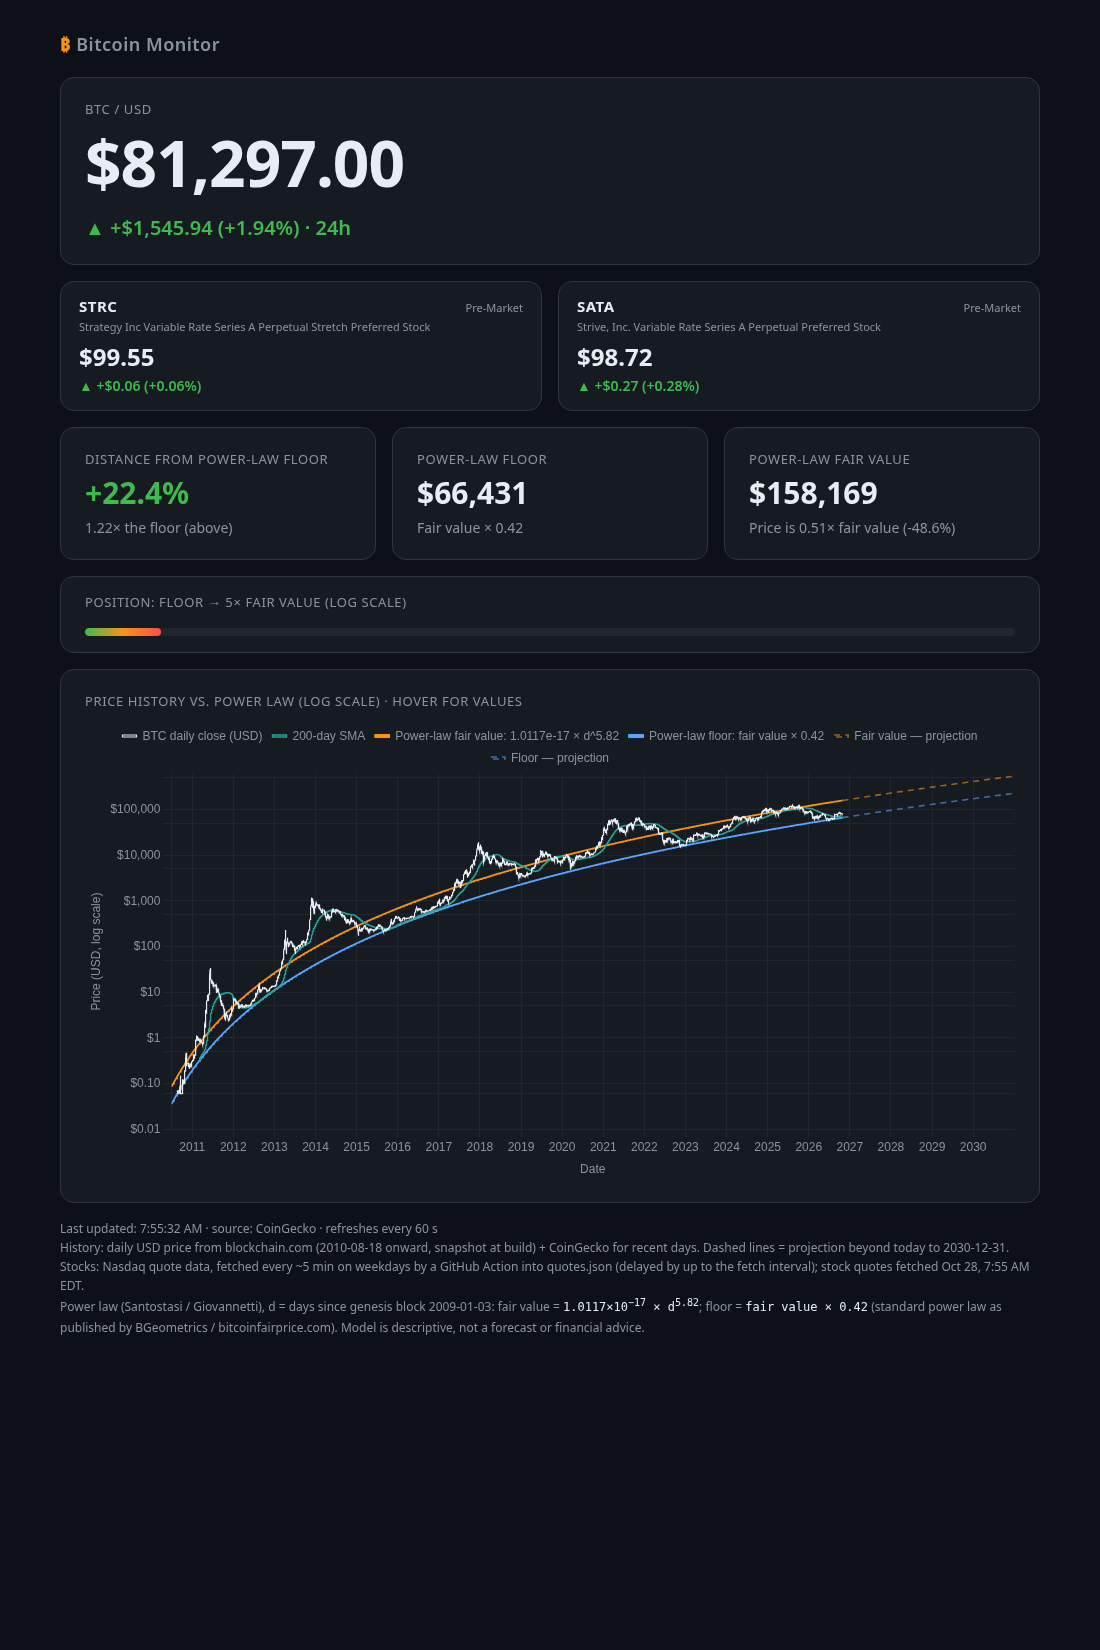
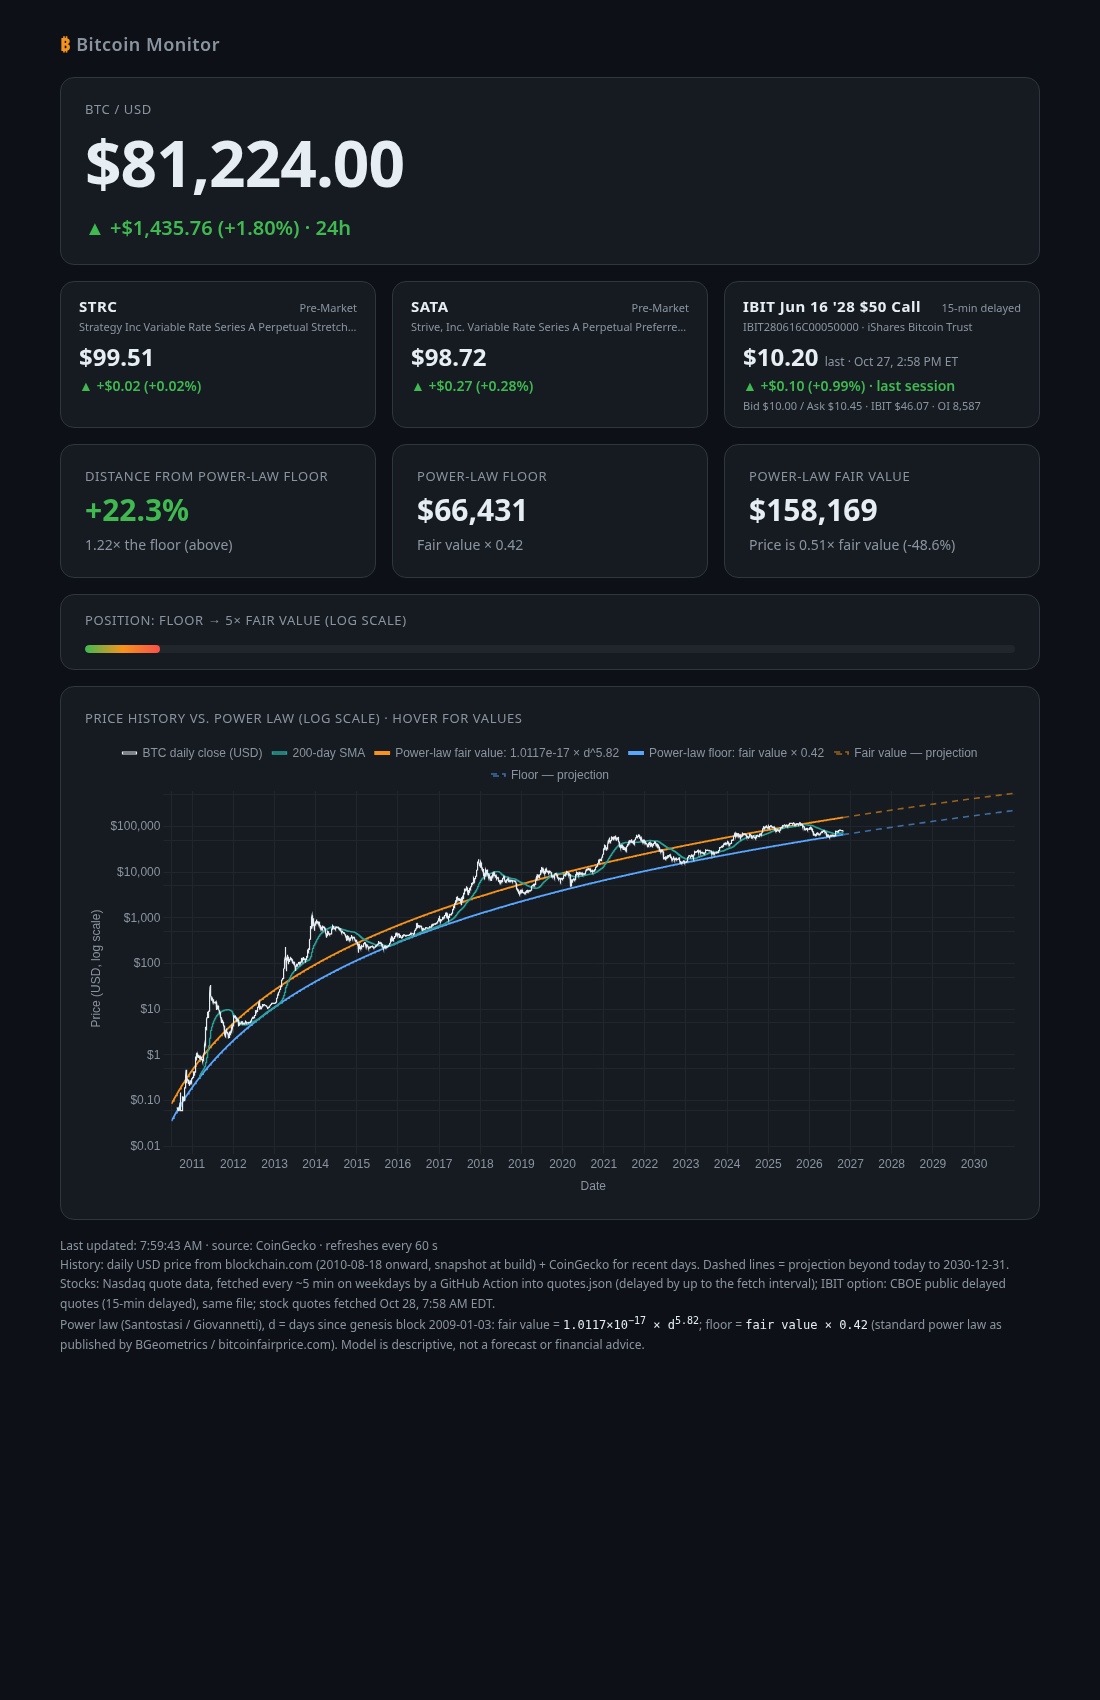
Add the IBIT Jun 2028 $50 call quote card.
Replace the dashboard, preview, quotes snapshot, and fetch script so the same weekday workflow also records the CBOE delayed call quote.

diff --git a/index.html b/index.html
@@ -34,6 +34,7 @@ main{max-width:980px}
 <div class="grid stocks">
   <div class="card" id="q-STRC"><div class="tk"><b>STRC</b><span class="sub" style="font-size:11px" data-f="st"></span></div><div class="nm" data-f="nm">Strategy Inc · Stretch preferred</div><div class="qp" data-f="p">—</div><div class="qc" data-f="c">Loading…</div></div>
   <div class="card" id="q-SATA"><div class="tk"><b>SATA</b><span class="sub" style="font-size:11px" data-f="st"></span></div><div class="nm" data-f="nm">Strive, Inc. · Series A preferred</div><div class="qp" data-f="p">—</div><div class="qc" data-f="c">Loading…</div></div>
+  <div class="card" id="q-OPT"><div class="tk"><b>IBIT Jun 16 '28 $50 Call</b><span class="sub" style="font-size:11px">15-min delayed</span></div><div class="nm" data-f="nm">IBIT280616C00050000 · iShares Bitcoin Trust</div><div class="qp" data-f="p">—</div><div class="qc" data-f="c">Loading…</div><div class="nm" data-f="ba"></div></div>
 </div>
 <div class="grid">
   <div class="card"><div class="lbl">Distance from power-law floor</div><div class="big" id="pct">—</div><div class="sub" id="mult"></div></div>
@@ -45,7 +46,7 @@ main{max-width:980px}
 <footer>
   <div>Last updated: <span id="upd">—</span> · source: <span id="src">—</span> · refreshes every 60 s</div>
   <div>History: daily USD price from blockchain.com (2010‑08‑18 onward, snapshot at build) + CoinGecko for recent days. Dashed lines = projection beyond today to 2030‑12‑31.</div>
-  <div>Stocks: Nasdaq quote data, fetched every ~5 min on weekdays by a GitHub Action into quotes.json (delayed by up to the fetch interval); <span id="qupd">—</span>.</div>
+  <div>Stocks: Nasdaq quote data, fetched every ~5 min on weekdays by a GitHub Action into quotes.json (delayed by up to the fetch interval); IBIT option: CBOE public delayed quotes (15-min delayed), same file; <span id="qupd">—</span>.</div>
   <div>Power law (Santostasi / Giovannetti), d = days since genesis block 2009‑01‑03:
   fair value = <code>1.0117×10<sup>−17</sup> × d<sup>5.82</sup></code>; floor = <code>fair value × 0.42</code> (standard power law as published by BGeometrics / bitcoinfairprice.com). Model is descriptive, not a forecast or financial advice.</div>
 </footer>
@@ -129,6 +130,20 @@ async function updateQuotes(){
   const up=d.change>=0;f('c').className='qc '+(up?'up':'dn');
   f('c').textContent=`${up?'▲ +':'▼ −'}${usd(Math.abs(d.change),2)} (${up?'+':'−'}${Math.abs(d.changePct).toFixed(2)}%)`;
  }
+
+ {const el=$('q-OPT'),f=k=>el.querySelector(`[data-f="${k}"]`),o=q&&q.quotes&&q.quotes['IBIT_C50_2028-06'];
+  if(!o||!(o.last>0||o.bid>0||o.ask>0)){f('p').textContent='—';f('c').className='qc';f('c').textContent='quote unavailable';f('ba').textContent=''}
+  else{
+   const mid=(o.bid>0&&o.ask>0)?(o.bid+o.ask)/2:null, lt=o.lastTradeTime?new Date(o.lastTradeTime+'Z'):null;/* CBOE time is exchange (ET) wall-clock; treat as UTC only for formatting */
+   const recent=o.last>0&&lt&&(Date.now()-lt.getTime())<4*DAY+5*36e5;
+   const fmtT=t=>t.toLocaleString('en-US',{timeZone:'UTC',month:'short',day:'numeric',hour:'numeric',minute:'2-digit'})+' ET';
+   if(recent||!mid){f('p').innerHTML=`${usd(o.last,2)} <span class="sub" style="font-size:12px;font-weight:400">last${lt?' · '+fmtT(lt):''}</span>`}
+   else{f('p').innerHTML=`${usd(mid,2)} <span class="sub" style="font-size:12px;font-weight:400">bid/ask midpoint (no recent trade)</span>`}
+   if(o.change!=null&&o.changePct!=null){const up=o.change>=0;f('c').className='qc '+(up?'up':'dn');
+    f('c').textContent=`${up?'▲ +':'▼ −'}${usd(Math.abs(o.change),2)} (${up?'+':'−'}${Math.abs(o.changePct).toFixed(2)}%) · last session`}
+   else{f('c').className='qc';f('c').textContent='change n/a'}
+   f('ba').textContent=`Bid ${o.bid!=null?usd(o.bid,2):'—'} / Ask ${o.ask!=null?usd(o.ask,2):'—'}`+(o.underlyingPrice?` · IBIT ${usd(o.underlyingPrice,2)}`:'')+(o.openInterest?` · OI ${o.openInterest.toLocaleString()}`:'');
+  }}
  $('qupd').textContent=q&&q.fetchedUtc?'stock quotes fetched '+new Date(q.fetchedUtc).toLocaleString('en-US',{month:'short',day:'numeric',hour:'numeric',minute:'2-digit',timeZoneName:'short'}):'stock quotes unavailable';
 }
 update();updateQuotes();setInterval(()=>{update();updateQuotes()},60000);

diff --git a/scripts/fetch_quotes.py b/scripts/fetch_quotes.py
@@ -15,12 +15,30 @@ def quote(sym):
             "price": num(p["lastSalePrice"]), "change": num(p["netChange"]) if p.get("deltaIndicator") != "down" else -abs(num(p["netChange"])),
             "changePct": num(p["percentageChange"]) if p.get("deltaIndicator") != "down" else -abs(num(p["percentageChange"])),
             "asOf": p.get("lastTradeTimestamp"), "realTime": p.get("isRealTime"), "status": d.get("marketStatus")}
+
+OPT_KEY, OPT_SYM = "IBIT_C50_2028-06", "IBIT280616C00050000"
+def option_quote():
+    """IBIT Jun 16 2028 $50 call from CBOE's public delayed-quotes chain (15-min delayed, no key)."""
+    req = urllib.request.Request("https://cdn.cboe.com/api/global/delayed_quotes/options/IBIT.json",
+                                 headers={"User-Agent": UA, "Accept": "application/json"})
+    d = json.load(urllib.request.urlopen(req, timeout=30))
+    o = next(x for x in d["data"]["options"] if x["option"] == OPT_SYM)
+    return {"symbol": OPT_SYM, "name": "IBIT Jun 16 '28 $50 Call", "underlying": "IBIT",
+            "underlyingPrice": d["data"].get("current_price"), "strike": 50.0, "expiry": "2028-06-16", "type": "call",
+            "last": o.get("last_trade_price"), "lastTradeTime": o.get("last_trade_time"),
+            "bid": o.get("bid"), "ask": o.get("ask"), "change": o.get("change"), "changePct": o.get("percent_change"),
+            "volume": o.get("volume"), "openInterest": o.get("open_interest"), "iv": o.get("iv"),
+            "asOfUtc": d.get("timestamp"), "delayed": "15-min delayed (CBOE)"}
 out = {"fetchedUtc": datetime.datetime.now(datetime.timezone.utc).strftime("%Y-%m-%dT%H:%M:%SZ"), "source": "Nasdaq", "quotes": {}}
 for s in SYMS:
     try:
         out["quotes"][s] = quote(s)
     except Exception as e:
         print(f"{s}: {e}", file=sys.stderr)
+try:
+    out["quotes"][OPT_KEY] = option_quote()
+except Exception as e:  # fail soft: stocks still get written
+    print(f"{OPT_KEY}: {e}", file=sys.stderr)
 if not out["quotes"]:
     sys.exit("no quotes fetched")
 json.dump(out, open("quotes.json", "w"), indent=1)

diff --git a/README.md b/README.md
@@ -9,5 +9,6 @@ Static single-page Bitcoin dashboard, live at https://rhoffman721.github.io/btc-
 - Log-scale history chart from 2010 with a 200-day SMA and dashed projections to 2030.
 - 60s auto-refresh.
 - STRC and SATA quotes come from Nasdaq's public quote API via a GitHub Action that refreshes quotes.json every ~5 minutes on weekdays.
+- The IBIT280616C00050000 call quote comes from CBOE's 15-minute-delayed public chain via the same workflow.
 
 GitHub Pages: Deploy from branch `main`, folder `/ (root)`.
